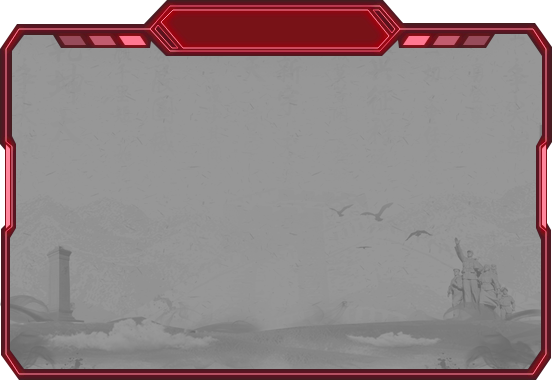
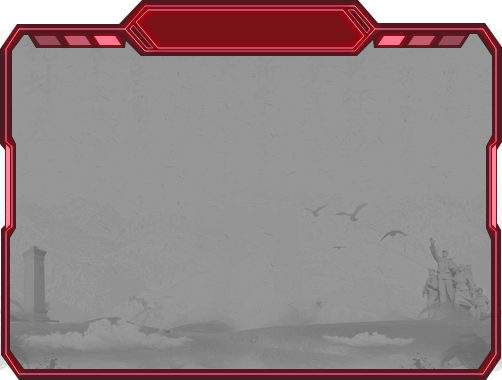
党建修改

diff --git a/src/components/Zhdj.vue b/src/components/Zhdj.vue
@@ -93,7 +93,7 @@
 							</div>
 							<div class="mission-list-box">
 								<div class="mission-list-item" v-for="(item,index) in missionList" :key="index" @click="missionListClick(item,index)">
-									<span>· {{item.name}}</span>
+									<span style="display: flex;"><p style="margin-right: 5px;">· </p><p>{{item.name}}</p></span>
 									<span>{{item.startTime}}</span>
 								</div>
 							</div>
@@ -101,7 +101,7 @@
 						<div class="mission-list-active" v-show="missionTabIndex==1">
 							<div class="mission-list-box" style="max-height: 250px;">
 								<div class="mission-list-item" v-for="(item,index) in missionList" :key="index" @click="missionListClick(item,index)">
-									<span>· {{item.name}}</span>
+									<span style="display: flex;"><p style="margin-right: 5px;">· </p><p>{{item.name}}</p></span>
 									<span>{{item.startTime}}</span>
 								</div>
 							</div>
@@ -818,14 +818,14 @@
 			}
 		}
 		.red-class-bottom {
-			width: 616px;
+			width: 516px;
 			height: 506px;
 			background: url(../bgImages/红色课堂-左下框.png) no-repeat;
 			background-size: 100% 100%;
 			margin-top: 60px;
 			.red-class-title {
 				width: 100%;
-				padding: 13px 208px;
+				padding: 13px 158px;
 				box-sizing: border-box;
 				text-align: center;
 				font-size: 22px;
@@ -873,7 +873,7 @@
 				font-size: 24px;
 				color: #fff;
 				div {
-					width: 516px;
+					width: 416px;
 					margin: 0 auto;
 					padding: 10px 0;
 					display: flex;
@@ -1015,14 +1015,14 @@
 			}
 		}
 		.mission-bottom {
-			width: 552px;
+			width: 502px;
 			height: 380px;
 			background: url(../bgImages/牢记使命-左下.png) no-repeat;
 			background-size: 100% 100%;
 			margin-top: 60px;
 			.mission-title {
 				width: 100%;
-				padding: 13px 208px;
+				padding: 13px 183px;
 				box-sizing: border-box;
 				text-align: center;
 				font-size: 22px;
@@ -1396,14 +1396,14 @@
 			}
 		}
 		.branch-bottom {
-			width: 616px;
+			width: 516px;
 			height: 557px;
 			background: url(../bgImages/支部力量-左下.png) no-repeat;
 			background-size: 100% 100%;
 			margin-top: 60px;
 			.branch-title {
 				width: 100%;
-				padding: 13px 208px;
+				padding: 13px 158px;
 				box-sizing: border-box;
 				text-align: center;
 				font-size: 22px;
